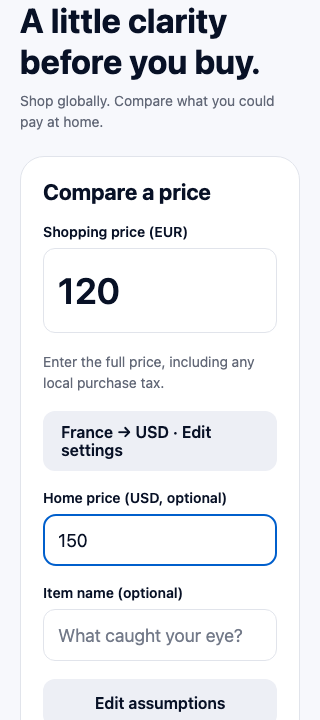
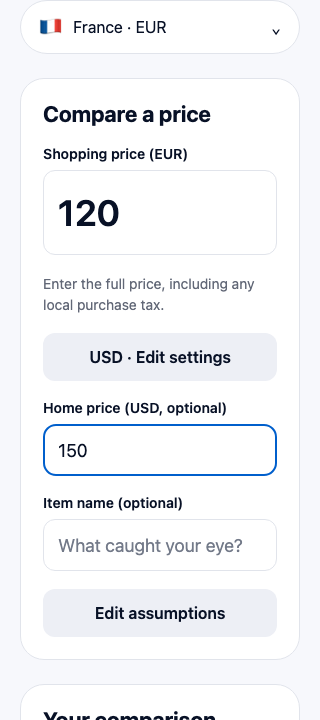
UX enhancements

diff --git a/src/app/CompareScreen.tsx b/src/app/CompareScreen.tsx
@@ -3,7 +3,7 @@ import { ActivityIndicator, KeyboardAvoidingView, Platform, ScrollView, Share, S
 import { SafeAreaView } from 'react-native-safe-area-context';
 import { Action, Card, Field, Select, ui } from '../components/controls';
 import { useComparison } from '../features/comparison/useComparison';
-import { availableCurrencies, fxLabel, savingsLabel, type DisplayedComparison } from '../features/comparison/model';
+import { fxLabel, savingsLabel, type DisplayedComparison } from '../features/comparison/model';
 import { countryFlag, countryName, residenceOptions } from '../features/comparison/countries';
 import { openShare, shareMessage } from '../features/comparison/sharing';
 import { appShareLink } from '../config/sharing';
@@ -64,36 +64,35 @@ export function CompareScreen() {
   const shopping = snapshot?.countries.find((row) => row.country === form.country);
   const residences = useMemo(() => residenceOptions(state.locale), [state.locale]);
   const countries = snapshot?.countries.map((row) => ({ value: row.country, label: `${countryName(row.country, state.locale)} · ${row.currency}`, flag: countryFlag(row.country) })) ?? [];
-  const currencies = snapshot ? availableCurrencies(snapshot).map((value) => ({ value, label: value })) : [];
   const error = (field: string) => !state.pending && view.status === 'invalid' && view.field === field ? view.message : undefined;
-  const showSettings = (settings ?? !form.residence) || !!error('country') || !!error('homeCurrency');
+  const showSettings = (settings ?? !form.residence) || !!error('homeCurrency');
   return <SafeAreaView style={styles.screen}>
     <KeyboardAvoidingView style={{ flex: 1 }} behavior={Platform.OS === 'ios' ? 'padding' : undefined}>
       <ScrollView contentContainerStyle={styles.content} keyboardShouldPersistTaps="handled">
         <View style={styles.heading}><Text style={styles.brand}>Savly</Text><Text style={styles.badge}>SAMPLE PROTOTYPE</Text></View>
-        <View style={{ gap: 8 }}><Text accessibilityRole="header" style={styles.headline}>A little clarity{ '\n' }before you buy.</Text><Text style={ui.muted}>Shop globally. Compare what you could pay at home.</Text></View>
         {!state.ready ? state.startupError ? <Card>
           <Text accessibilityRole="alert" style={ui.error}>Your settings couldn’t load. Please try again.</Text>
           <Action label="Retry loading settings" onPress={state.retryStartup} />
         </Card> : <ActivityIndicator accessibilityLabel="Loading your settings" color={colors.ink} /> : <>
+          <View style={styles.shoppingPicker}>
+            <Select label="Shopping country" value={form.country} options={countries} onChange={(v) => state.edit('country', v)} error={error('country')} compact />
+          </View>
           <Card>
             <Text accessibilityRole="header" style={ui.title}>Compare a price</Text>
             <Field label={`Shopping price (${shopping?.currency ?? 'local currency'})`} value={form.price} onChange={(v) => state.edit('price', v)} numeric prominent placeholder="0.00" error={error('price')} />
             <Text style={ui.muted}>Enter the full price, including any local purchase tax.</Text>
-            <Action label={`${countryName(form.country || 'FR', state.locale)} → ${form.homeCurrency} · ${showSettings ? 'Hide' : 'Edit'} settings`} secondary expanded={showSettings} onPress={() => setSettings(!showSettings)} />
+            <Action label={`${form.homeCurrency || 'Home country'} · ${showSettings ? 'Hide' : 'Edit'} settings`} secondary expanded={showSettings} onPress={() => setSettings(!showSettings)} />
             {(showSettings) && <View style={{ gap: 16 }}>
-              <Select label="Shopping country" value={form.country} options={countries} onChange={(v) => state.edit('country', v)} error={error('country')} />
-              <Select label="Home currency" value={form.homeCurrency} options={currencies} onChange={(v) => state.edit('homeCurrency', v)} error={error('homeCurrency')} />
-              <Select label="Country of residence" value={form.residence} options={residences} onChange={(v) => state.edit('residence', v)} />
-              <Text style={ui.muted}>Residency is separate from currency. Refund eligibility is not verified.</Text>
+              <Select label="Country of residence" value={form.residence} options={residences} onChange={(v) => state.edit('residence', v)} error={error('homeCurrency')} />
+              <Text style={ui.muted}>Home currency follows your country of residence. Refund eligibility is not verified.</Text>
             </View>}
-            <Field label={`Home price (${form.homeCurrency}, optional)`} value={form.homePrice} onChange={(v) => state.edit('homePrice', v)} numeric placeholder="Price at home, including taxes" error={error('homePrice')} />
+            <Field label={`Home price (${form.homeCurrency || 'home currency'}, optional)`} value={form.homePrice} onChange={(v) => state.edit('homePrice', v)} numeric placeholder="Price at home, including taxes" error={error('homePrice')} />
             <Field label="Item name (optional)" value={form.itemName} onChange={(v) => state.edit('itemName', v)} placeholder="What caught your eye?" />
             <Action label={assumptions ? 'Close assumptions' : 'Edit assumptions'} secondary expanded={assumptions} onPress={() => setAssumptions(!assumptions)} />
             {(assumptions || error('fxOverride') || error('refundOverride') || error('feePercent')) && <View style={{ gap: 16 }}>
               <Text style={ui.muted}>Leave FX and refund blank to use automatic values. Manual values apply only to this comparison.</Text>
               <Field label="Additional bank fee (%)" value={form.feePercent} onChange={(v) => state.edit('feePercent', v)} numeric error={error('feePercent') ?? error('bankFee')} />
-              {shopping?.currency !== form.homeCurrency && <Field label={`Manual FX (${form.homeCurrency} per ${shopping?.currency ?? 'shopping unit'})`} value={form.fxOverride} onChange={(v) => state.edit('fxOverride', v)} numeric placeholder="Automatic rate" error={error('fxOverride')} />}
+              {shopping?.currency !== form.homeCurrency && <Field label={`Manual FX (${form.homeCurrency || 'home currency'} per ${shopping?.currency ?? 'shopping unit'})`} value={form.fxOverride} onChange={(v) => state.edit('fxOverride', v)} numeric placeholder="Automatic rate" error={error('fxOverride')} />}
               <Field label={`Manual refund (${shopping?.currency ?? 'shopping currency'})`} value={form.refundOverride} onChange={(v) => state.edit('refundOverride', v)} numeric placeholder="Automatic estimate, if available" error={error('refundOverride')} />
               <Action label="Reset FX and refund to automatic" secondary onPress={state.reset} />
             </View>}
@@ -118,7 +117,7 @@ const styles = StyleSheet.create({
   heading: { flexDirection: 'row', alignItems: 'center', justifyContent: 'space-between', gap: 12, flexWrap: 'wrap' },
   brand: { fontSize: 32, fontWeight: '800', color: colors.ink },
   badge: { color: '#3F506B', fontSize: 12, fontWeight: '700', backgroundColor: '#E9EDF5', paddingHorizontal: 10, paddingVertical: 6, borderRadius: 8, alignSelf: 'flex-start' },
-  headline: { fontSize: 34, fontWeight: '700', color: colors.ink, lineHeight: 41 },
+  shoppingPicker: { alignSelf: 'center', width: '100%', maxWidth: 360 },
   total: { color: colors.ink, fontSize: 32, fontWeight: '700', paddingTop: 4 },
   row: { flexDirection: 'row', justifyContent: 'space-between', gap: 12, flexWrap: 'wrap' },
   summary: { padding: 20, borderRadius: 16, backgroundColor: '#F0F2F7', gap: 8 },

diff --git a/tests/ui/comparison.spec.ts b/tests/ui/comparison.spec.ts
@@ -71,7 +71,7 @@ test('Small screen layout and demo landing page', async ({ page }) => {
   await page.setViewportSize({ width: 320, height: 720 });
   await comparison(page);
   expect(await page.evaluate(() => document.documentElement.scrollWidth <= window.innerWidth)).toBe(true);
-  await page.getByText('A little clarity', { exact: false }).evaluate((el) => el.scrollIntoView({ block: 'start' }));
+  await page.getByRole('button', { name: 'Shopping country: France · EUR', exact: true }).evaluate((el) => el.scrollIntoView({ block: 'start' }));
   await page.screenshot({ path: 'test-results/savly-compare-320.png' });
   await page.getByText('Your comparison', { exact: true }).evaluate((el) => el.scrollIntoView({ block: 'start' }));
   await page.screenshot({ path: 'test-results/savly-result-320.png' });
@@ -108,9 +108,13 @@ test('Stale cached data stays labeled and Retry recovers after storage becomes a
 test('Unknown refund and missing FX never invent a total; invalid input hides sharing', async ({ page }) => {
   await openCompare(page);
   await page.getByRole('textbox', { name: 'Shopping price (EUR)', exact: true }).fill('120');
+  await page.getByRole('button', { name: 'Country of residence: Choose country', exact: true }).click();
+  await page.getByRole('button', { name: 'France', exact: true }).click();
   await expect(page.getByText('Refund estimate unavailable.', { exact: false })).toBeVisible();
-  await page.getByRole('button', { name: 'Home currency: USD', exact: true }).click();
-  await page.getByRole('button', { name: 'JPY', exact: true }).click();
+  await page.getByRole('button', { name: /Edit settings/ }).click();
+  await page.getByRole('button', { name: 'Country of residence: France', exact: true }).click();
+  await page.getByRole('textbox', { name: 'Search country of residence', exact: true }).fill('Japan');
+  await page.getByRole('button', { name: 'Japan', exact: true }).click();
   await expect(page.getByText('Conversion unavailable.', { exact: true }).first()).toBeVisible();
   await expect(page.getByRole('button', { name: 'Share comparison', exact: true })).toHaveCount(0);
 });
@@ -156,4 +160,24 @@ test('Welcome screen matches the entry flow and Sign in remains inactive', async
   await page.getByRole('button', { name: 'Get started', exact: true }).click();
   await expect(page.getByRole('textbox', { name: 'Shopping price (EUR)', exact: true })).toBeVisible();
   await expect(page.getByRole('button', { name: 'Get started', exact: true })).toHaveCount(0);
+});
+
+test('Home country selects currency automatically and migrates saved currency choices', async ({ page }) => {
+  await page.addInitScript(() => {
+    if (!localStorage.getItem('savly:preferences:1')) localStorage.setItem('savly:preferences:1', JSON.stringify({
+      version: 1, country: 'FR', residence: 'US', homeCurrency: 'GBP', feePercent: '0'
+    }));
+  });
+  await openCompare(page);
+  await expect(page.getByRole('textbox', { name: 'Home price (USD, optional)', exact: true })).toBeVisible();
+  await expect(page.getByRole('button', { name: /^Home currency:/ })).toHaveCount(0);
+  await page.getByRole('textbox', { name: 'Home price (USD, optional)', exact: true }).fill('150');
+  await page.getByRole('button', { name: /Edit settings/ }).click();
+  await page.getByRole('button', { name: 'Country of residence: United States', exact: true }).click();
+  await page.getByRole('textbox', { name: 'Search country of residence', exact: true }).fill('France');
+  await page.getByRole('button', { name: 'France', exact: true }).click();
+  await expect(page.getByRole('textbox', { name: 'Home price (EUR, optional)', exact: true })).toHaveValue('');
+  await page.reload();
+  await page.getByRole('button', { name: 'Get started', exact: true }).click();
+  await expect(page.getByRole('textbox', { name: 'Home price (EUR, optional)', exact: true })).toBeVisible();
 });

diff --git a/src/features/comparison/useComparison.ts b/src/features/comparison/useComparison.ts
@@ -6,14 +6,16 @@ import { activateReferenceData, referenceStore } from '../../data/mobile-referen
 import type { ReferenceState } from '../../data/reference-store';
 import { PreferenceStore, initialPreferences } from '../../storage/preferences';
 import { D } from '../../domain/decimal';
-import { availableCurrencies, compare, editForm, newForm, normalizeDecimal, resetOverrides, type ComparisonForm } from './model';
+import { withHomeCurrency, compare, editForm, newForm, normalizeDecimal, resetOverrides, type ComparisonForm } from './model';
 
 const preferenceStore = new PreferenceStore(AsyncStorage);
 export function useComparison() {
   const localeInfo = getLocales()[0];
   const locale = localeInfo?.languageTag ?? 'en-US';
-  const [form, setForm] = useState(newForm);
+  const [storedForm, setForm] = useState(newForm);
   const [reference, setReference] = useState<ReferenceState | null>(null);
+  const form = useMemo(() => withHomeCurrency(storedForm, reference?.snapshot ?? null), [storedForm, reference?.snapshot]);
+  useEffect(() => { if (form !== storedForm) setForm(form); }, [form, storedForm]);
   const [ready, setReady] = useState(false);
   const [startupError, setStartupError] = useState(false);
   const [startupAttempt, setStartupAttempt] = useState(0);
@@ -26,8 +28,7 @@ export function useComparison() {
     const deactivate = activateReferenceData();
     void Promise.all([preferenceStore.load(), referenceStore.get()]).then(([saved, state]) => {
       if (!mounted) return;
-      const currencies = state.snapshot ? availableCurrencies(state.snapshot) : ['USD'];
-      const preferences = saved ?? initialPreferences(localeInfo?.currencyCode ?? null, currencies);
+      const preferences = saved ?? initialPreferences();
       if (!saved && state.snapshot && !state.snapshot.countries.some((row) => row.country === preferences.country)) {
         preferences.country = state.snapshot.countries[0]?.country ?? '';
       }
@@ -56,12 +57,12 @@ export function useComparison() {
     return () => clearTimeout(timer);
   }, [form]);
   const pending = settledForm !== form;
-  const view = useMemo(() => compare(settledForm, ready ? reference : null, locale), [settledForm, reference, ready, locale]);
+  const view = useMemo(() => compare(withHomeCurrency(settledForm, reference?.snapshot ?? null), ready ? reference : null, locale), [settledForm, reference, ready, locale]);
   return {
     form, reference, ready, view, pending, storageError, retrying, locale, startupError,
     retryStartup: () => setStartupAttempt((attempt) => attempt + 1),
-    edit: (field: keyof ComparisonForm, value: string) => setForm((old) => editForm(old, field, value)),
-    reset: () => setForm(resetOverrides),
+    edit: (field: keyof ComparisonForm, value: string) => setForm(withHomeCurrency(editForm(form, field, value), reference?.snapshot ?? null)),
+    reset: () => setForm(resetOverrides(form)),
     retry: async () => { setRetrying(true); try { setReference(await referenceStore.retry()); } finally { setRetrying(false); } },
   };
 }

diff --git a/tests/comparison.test.ts b/tests/comparison.test.ts
@@ -1,6 +1,6 @@
 import assert from 'node:assert/strict';
 import { test } from 'node:test';
-import { automaticFx, compare, editForm, fxLabel, newForm, resetOverrides, type ComparisonForm } from '../src/features/comparison/model';
+import { withHomeCurrency, automaticFx, compare, editForm, fxLabel, newForm, resetOverrides, type ComparisonForm } from '../src/features/comparison/model';
 import { openShare, shareLink, shareMessage } from '../src/features/comparison/sharing';
 import { ReferenceStore } from '../src/data/reference-store';
 import { createMockTransport, SAMPLE_RESPONSES } from '../src/data/transport';
@@ -59,8 +59,8 @@ test('AC14 loading, unavailable, missing pair, invalid, empty and unknown refund
 test('AC15 locale normalizes decimal separator without inferring residency from currency', () => {
   assert.equal(ready({ price: '120,00', feePercent: '3,0' }, reference, 'fr-FR').result.withRefund, '119.46');
   assert.equal(compare({ ...form, price: '1,200' }, reference, 'en-US').status, 'invalid');
-  assert.equal(initialPreferences('EUR', ['USD', 'EUR']).homeCurrency, 'EUR');
-  assert.equal(initialPreferences('EUR', ['USD', 'EUR']).residence, '');
+  assert.equal(initialPreferences().homeCurrency, '');
+  assert.equal(initialPreferences().residence, '');
 });
 test('AC15 settings persist separately from item inputs and comparison overrides', async () => {
   let stored = '';
@@ -114,4 +114,22 @@ test('SH4 share cancel and failure leave result unchanged; retries are possible'
 test('Share URL accepts only generic HTTPS app links without private parameters', () => {
   for (const url of ['http://example.com/app', 'https://example.com/app?price=120', 'https://secret@example.com/app', 'https://example.com/app#history', 'https://example.com/history/123']) assert.throws(() => shareLink(url));
   assert.equal(shareLink('https://example.org/app').demo, false);
+});
+
+test('Home currency follows reference country data and clears amounts when units change', () => {
+  const old = { ...form, fxOverride: '2', refundOverride: '10' };
+  const euro = withHomeCurrency(editForm(old, 'residence', 'FR'), snapshot);
+  assert.equal(euro.homeCurrency, 'EUR');
+  assert.equal(euro.homePrice, '');
+  assert.equal(euro.fxOverride, '');
+  assert.equal(euro.refundOverride, '');
+  assert.equal(compare({ ...euro, refundOverride: '0' }, reference).status, 'ready');
+  const result = ready({ ...euro, refundOverride: '0' }).result;
+  assert.equal(result.withoutRefund, '120.00');
+  assert.equal(result.homeCurrency, 'EUR');
+  assert.equal(withHomeCurrency(old, snapshot), old);
+  assert.equal(withHomeCurrency({ ...old, residence: '' }, snapshot).homeCurrency, '');
+  assert.equal(withHomeCurrency({ ...old, residence: 'CA' }, snapshot).homeCurrency, '');
+  assert.equal(withHomeCurrency(old, { ...snapshot, countries: snapshot.countries.filter(c => c.country !== 'US') }).homeCurrency, '');
+  assert.equal(withHomeCurrency({ ...old, homeCurrency: 'GBP' }, snapshot).homeCurrency, 'USD');
 });

diff --git a/src/features/comparison/model.ts b/src/features/comparison/model.ts
@@ -17,6 +17,12 @@ export function editForm(form: ComparisonForm, field: keyof ComparisonForm, valu
   const clear = ['country', 'homeCurrency', 'residence', 'price'].includes(field) && value !== form[field];
   return { ...form, ...(clear ? { fxOverride: '', refundOverride: '' } : {}), [field]: value };
 }
+// Reconcile legacy saved preferences and reference-data changes as well as user edits.
+export function withHomeCurrency(form: ComparisonForm, snapshot: Snapshot | null): ComparisonForm {
+  const currency = snapshot?.countries.find((row) => row.country === form.residence)?.currency ?? '';
+  if (currency === form.homeCurrency) return form;
+  return { ...form, homeCurrency: currency, homePrice: '', fxOverride: '', refundOverride: '' };
+}
 export function resetOverrides(form: ComparisonForm): ComparisonForm {
   return { ...form, fxOverride: '', refundOverride: '' };
 }
@@ -69,7 +75,7 @@ export function compare(form: ComparisonForm, reference: ReferenceState | null, 
   if (!snapshot) return { status: 'unavailable', message: 'Rates are unavailable. Try again when you’re connected.' };
   const country = selectedCountry(snapshot, form.country);
   if (!country) return { status: 'invalid', field: 'country', message: 'This shopping country is no longer supported. Choose another country.' };
-  if (!availableCurrencies(snapshot).includes(form.homeCurrency)) return { status: 'invalid', field: 'homeCurrency', message: 'Choose a supported home currency.' };
+  if (!availableCurrencies(snapshot).includes(form.homeCurrency)) return { status: 'invalid', field: 'homeCurrency', message: form.residence ? 'Currency data is unavailable for this home country.' : 'Choose your country of residence to set your home currency.' };
   if (!form.price.trim()) return { status: 'empty', message: 'Enter a shopping price to see your estimate.' };
   try {
     const price = normalizeDecimal(form.price, locale);

diff --git a/src/components/controls.tsx b/src/components/controls.tsx
@@ -37,7 +37,7 @@ function OptionLabel({ label, flag, selected = false }: { label: string; flag?: 
     <Text style={[ui.text, { flexShrink: 1 }]}>{label}{selected ? ' ✓' : ''}</Text>
   </View>;
 }
-export function Select({ label, value, options, onChange, error }: { label: string; value: string; options: Option[]; onChange: (value: string) => void; error?: string }) {
+export function Select({ label, value, options, onChange, error, compact = false }: { label: string; value: string; options: Option[]; onChange: (value: string) => void; error?: string; compact?: boolean }) {
   const [open, setOpen] = useState(false);
   const [search, setSearch] = useState('');
   const selectedOption = options.find((option) => option.value === value);
@@ -45,7 +45,7 @@ export function Select({ label, value, options, onChange, error }: { label: stri
   return <View style={{ gap: 8 }}>
     <Text style={ui.label}>{label}</Text>
     <Pressable accessibilityRole="button" accessibilityLabel={`${label}: ${chosen}`} accessibilityState={{ expanded: open }}
-      style={[ui.input, { flexDirection: 'row', justifyContent: 'space-between', gap: 12 }]} onPress={() => { setSearch(''); setOpen(true); }}>
+      style={[ui.input, { flexDirection: 'row', alignItems: 'center', justifyContent: 'space-between', gap: 12 }, compact && { borderRadius: 28, paddingVertical: 10, paddingHorizontal: 18 }]} onPress={() => { setSearch(''); setOpen(true); }}>
       <OptionLabel label={chosen} flag={selectedOption?.flag} /><Text style={ui.text}>⌄</Text>
     </Pressable>
     {!!error && <Text accessibilityRole="alert" style={ui.error}>{error}</Text>}

diff --git a/src/storage/preferences.ts b/src/storage/preferences.ts
@@ -10,7 +10,7 @@ export class PreferenceStore {
       const raw = await this.storage.getItem(this.key);
       if (!raw) return null;
       const p = JSON.parse(raw);
-      if (p.version !== 1 || !/^[A-Z]{2}$/.test(p.country) || !/^[A-Z]{3}$/.test(p.homeCurrency) ||
+      if (p.version !== 1 || !/^[A-Z]{2}$/.test(p.country) || !(p.homeCurrency === '' || /^[A-Z]{3}$/.test(p.homeCurrency)) ||
           !(p.residence === '' || /^[A-Z]{2}$/.test(p.residence)) || typeof p.feePercent !== 'string' ||
           !/^\d{1,3}(?:\.\d{1,4})?$/.test(p.feePercent) || Number(p.feePercent) > 100) return null;
       return { country: p.country, homeCurrency: p.homeCurrency, residence: p.residence, feePercent: p.feePercent };
@@ -23,6 +23,6 @@ export class PreferenceStore {
     return this.writes;
   }
 }
-export function initialPreferences(suggestedCurrency: string | null, currencies: readonly string[]): Preferences {
-  return { ...DEFAULT_PREFERENCES, homeCurrency: suggestedCurrency && currencies.includes(suggestedCurrency) ? suggestedCurrency : currencies.includes('USD') ? 'USD' : currencies[0] ?? 'USD' };
+export function initialPreferences(): Preferences {
+  return { ...DEFAULT_PREFERENCES, homeCurrency: '' };
 }

diff --git a/docs/prototype-verification.md b/docs/prototype-verification.md
@@ -4,25 +4,25 @@ The calculator foundation and interactive sample prototype are implemented. Comp
 
 ## Demonstrate it
 
-Run `npm start` on a configured Android/iOS environment, or `npm run web` for a browser preview without an Android SDK. Tap **Get started** on the welcome screen; **Sign in** is disabled. On first use, select **United States** as the country of residence explicitly. With shopping country **France**, home currency **USD**, price **120**, and home price **150**, the result should show:
+Run `npm start` on a configured Android/iOS environment, or `npm run web` for a browser preview without an Android SDK. Tap **Get started** on the welcome screen; **Sign in** is disabled. On first use, select **United States** as the country of residence explicitly. Home currency becomes **USD** automatically. With shopping country **France**, price **120**, and home price **150**, the result should show:
 
 - Without VAT refund: **USD 132.00**.
 - Estimated refund: **USD 16.50**.
 - With VAT refund: **USD 115.50**.
 - Potential savings: **USD 34.50 (23.0%)**.
 
-Use **Edit assumptions** to enter a 3% bank fee; the net cost becomes USD 119.46. A EUR 21 manual refund produces a validation error. **Reset FX and refund to automatic** clears only comparison overrides, retaining the bank-fee preference. Changing shopping country, home currency, residency, or shopping price clears comparison overrides. Country/residency, home currency, and valid bank fees persist; item details and comparison overrides do not.
+Use **Edit assumptions** to enter a 3% bank fee; the net cost becomes USD 119.46. A EUR 21 manual refund produces a validation error. **Reset FX and refund to automatic** clears only comparison overrides, retaining the bank-fee preference. Changing shopping country, residency, or shopping price clears comparison overrides. Changing the automatically derived home currency also clears the home price. Saved legacy currency choices are reconciled on startup; missing country/currency metadata blocks totals with an explanation. Country/residency, home currency, and valid bank fees persist; item details and comparison overrides do not.
 
 Sample country/currency options include France/EUR, US/USD, Japan/JPY, UK/GBP, and Australia/AUD. Membership still comes from the reference snapshot, so an existing fresh cache gains new fixture countries at its next refresh. The one illustrative automatic refund rule covers general goods in France for US residents. Other combinations display refund unavailable unless a manual amount is supplied. Residency choices remain independent of shopping-country support.
 
 ## Checks actually run
 
 - `npm run typecheck`: app and test TypeScript passed.
-- `npm test`: 68 domain/data/integration tests passed.
+- `npm test`: 69 domain/data/integration tests passed.
 - `npm run check:dependencies`: Expo dependency versions passed.
 - `NODE_ENV=production npm run export:mobile`: Android and iOS JavaScript bundles passed.
 - `NODE_ENV=production npm run export:web`: browser production bundle passed.
-- `PLAYWRIGHT_BROWSERS_PATH=/tmp/savly-playwright npm run test:ui`: nine Chromium browser tests passed against the production web export.
+- `PLAYWRIGHT_BROWSERS_PATH=/tmp/savly-playwright npm run test:ui`: ten Chromium browser tests passed against the production web export.
 
 The browser tests verify welcome-to-Compare navigation, disabled Sign in, and the automatic numerical example, fee edits, refund validation, settings after reload, override reset, missing/equal/unfavorable comparisons, stale-cache recovery, missing FX, unavailable refunds, sharing payload/cancellation with a simulated browser share API, and a 320-pixel layout without horizontal overflow. API/cache failures also have fake-clock and transport tests. Stale browser recovery uses a simulated storage-write failure; it is not a deployed-backend outage test.
 

diff --git a/specs/001-shopping-calculator/spec.md b/specs/001-shopping-calculator/spec.md
@@ -10,7 +10,9 @@ As a traveler, I want to enter an overseas price and compare its estimated net c
 
 Each app launch begins with the photo-led Savly welcome screen inspired by the design board. **Get started** opens Compare without requiring an account. **Sign in** is disabled and has no action for now. Welcome copy describes potential savings rather than guaranteed savings or refunds.
 
-Remember home residency/currency and shopping country/currency after initial setup. Suggest home currency from locale; never infer residency or refund eligibility from currency. For repeat comparisons, only the price is required. Item name and home price are optional. Recalculate automatically after a short debounce on valid edits; no Calculate button is required.
+Present the shopping-country dropdown at the top of Compare, before price entry, with its flag, country name, and currency code. Keep it visible outside the home-settings section; retain the remembered shopping country for repeat use.
+
+Remember home residency/currency and shopping country/currency after initial setup. Derive home currency from the selected residence country using the cached API country-to-currency mapping; remove the independent home-currency picker. Reconcile older saved currency choices with that mapping on startup and after reference refresh. Do not infer residence from locale. Until residence is selected, or if its currency metadata is unavailable, explain what is missing and do not calculate a total. Clear the home price and comparison overrides whenever its currency changes, so old amounts are not reinterpreted in another currency. For repeat comparisons, only the price is required. Item name and home price are optional. Recalculate automatically after a short debounce on valid edits; no Calculate button is required.
 
 Load supported countries, FX rates, and VAT metadata from the sibling fxService repository’s canonical endpoints, mocked initially, following [the app integration notes](api-contract.md), and persist validated data for four hours. Refund rules are separate illustrative local fixtures in prototype mode only; the current backend does not supply them. Perform all calculations and rule selection on-device; input changes reuse cached data without API requests. Default to the configured FX source and an editable 0% additional bank fee (a Savly assumption, not a universal card fee). FX and available VAT are automatically populated. Automatic net refund rates are populated only from explicitly labeled prototype fixtures; real backend mode requires manual refund input or shows refund unavailable. Advanced users can override FX, fee, or refund amount through “Edit assumptions” and reset to automatic values. Persist card fee preferences; FX/refund overrides apply only to the current comparison and clear when its country, currency, or price changes.
 

diff --git a/README.md b/README.md
@@ -77,7 +77,7 @@ Verified with `npm test`: 52 tests total, including 23 data-layer tests for exac
 
 The app opens with a photo-led welcome screen. **Get started** opens Compare; **Sign in** is disabled for now.
 
-See [the demonstration and verification record](docs/prototype-verification.md) for sample inputs, screenshots, passed checks, and remaining device checks. Select your country of residence explicitly; it is never inferred from currency. The France/US-resident example is illustrative. Other residency/country combinations may have no automatic refund estimate.
+See [the demonstration and verification record](docs/prototype-verification.md) for sample inputs, screenshots, passed checks, and remaining device checks. Home currency is set automatically from the selected country of residence using cached API metadata; there is no separate currency picker. Select your country of residence explicitly; it is never inferred from currency. The France/US-resident example is illustrative. Other residency/country combinations may have no automatic refund estimate.
 
 The comparison screen recalculates after 180 ms, retains settings, and labels sample, manual, and stale estimates. **Share savings** / **Share comparison** uses the native share sheet with the displayed result snapshot. It never fetches fresh rates or claims delivery. Sharing defaults to a labeled demo link; see `.env.example` for `EXPO_PUBLIC_SAVLY_APP_LINK`. A local demo landing page lives in `public/app/index.html`; no site or store listing is published.
 
@@ -89,7 +89,7 @@ NODE_ENV=production npm run export:web
 npm run test:ui
 ```
 
-The web build is written to ignored `dist-web/`; browser screenshots/results go to ignored `test-results/`. Current verification: 68 domain/data/integration tests, nine browser tests, TypeScript, Expo compatibility, and Android/iOS/web bundling pass. Native device and WhatsApp delivery checks remain pending. Country names fall back to bundled English labels on engines without `Intl.DisplayNames`; a browser regression verifies startup and calculation with optional Intl APIs disabled.
+The web build is written to ignored `dist-web/`; browser screenshots/results go to ignored `test-results/`. Current verification: 69 domain/data/integration tests, ten browser tests, TypeScript, Expo compatibility, and Android/iOS/web bundling pass. Native device and WhatsApp delivery checks remain pending. Country names fall back to bundled English labels on engines without `Intl.DisplayNames`; a browser regression verifies startup and calculation with optional Intl APIs disabled.
 
 ## Premium access
 

diff --git a/docs/design-brief.md b/docs/design-brief.md
@@ -24,7 +24,7 @@ Validate contrast during implementation. Support enlarged text and both Android 
 
 ## Screen interpretation
 
-1. **Compare:** Savly branding, remembered shopping/home settings, prominent price entry, optional item name and home price, automatic recalculation, and a secondary “Edit assumptions” action.
+1. **Compare:** Savly branding, a centered rounded shopping-country dropdown above the price form (flag, name, and currency), remembered home settings, prominent price entry, optional item name and home price, automatic recalculation, and a secondary “Edit assumptions” action.
 2. **Result:** a simple summary showing “Without VAT refund,” “Estimated VAT refund,” and “With VAT refund,” followed by a green savings panel when a home price supports a favorable comparison. Align purchase cost, card fee, and expected refund in a clear breakdown. Keep bank-fee defaults and rate provenance in the expandable details, with a visible “Sample estimate” label for mocked results. Unfavorable results need clear wording without celebratory styling.
 3. **History / Saved, later milestone:** compact item cards with name, currency, price, savings if available, and snapshot date. Product thumbnails can come later; manual entry works without images.
 

diff --git a/specs/001-shopping-calculator/tasks.md b/specs/001-shopping-calculator/tasks.md
@@ -21,6 +21,10 @@
 
 ## Milestone 2
 
+- [x] Move shopping-country selection to a rounded top dropdown before price entry, outside home settings.
+
+- [x] Derive home currency from country of residence; remove currency selection, reconcile saved settings, and clear home amounts on currency changes.
+
 - [x] Add flags beside country names in shopping and residence pickers, preserving search and accessible names.
 
 - [x] Add the design-board-inspired welcome screen; Get started opens Compare and Sign in is disabled.
